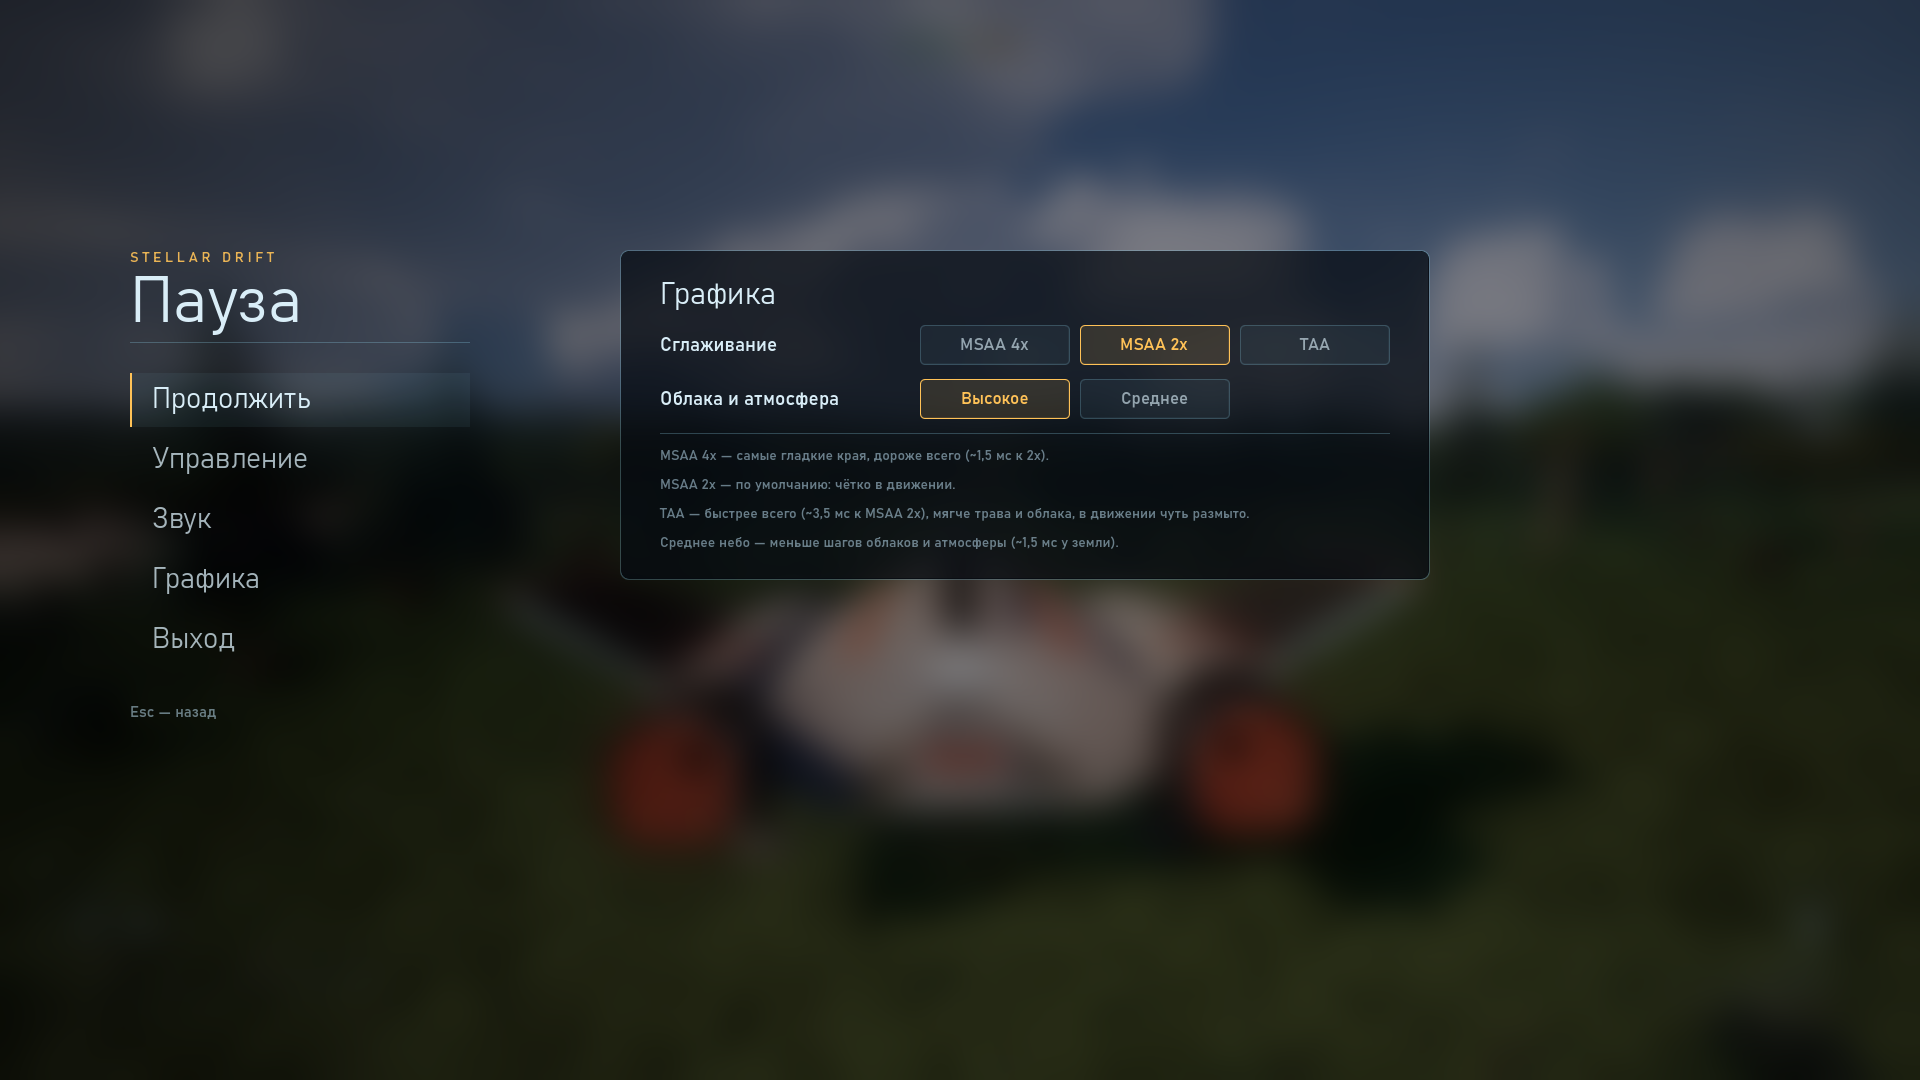
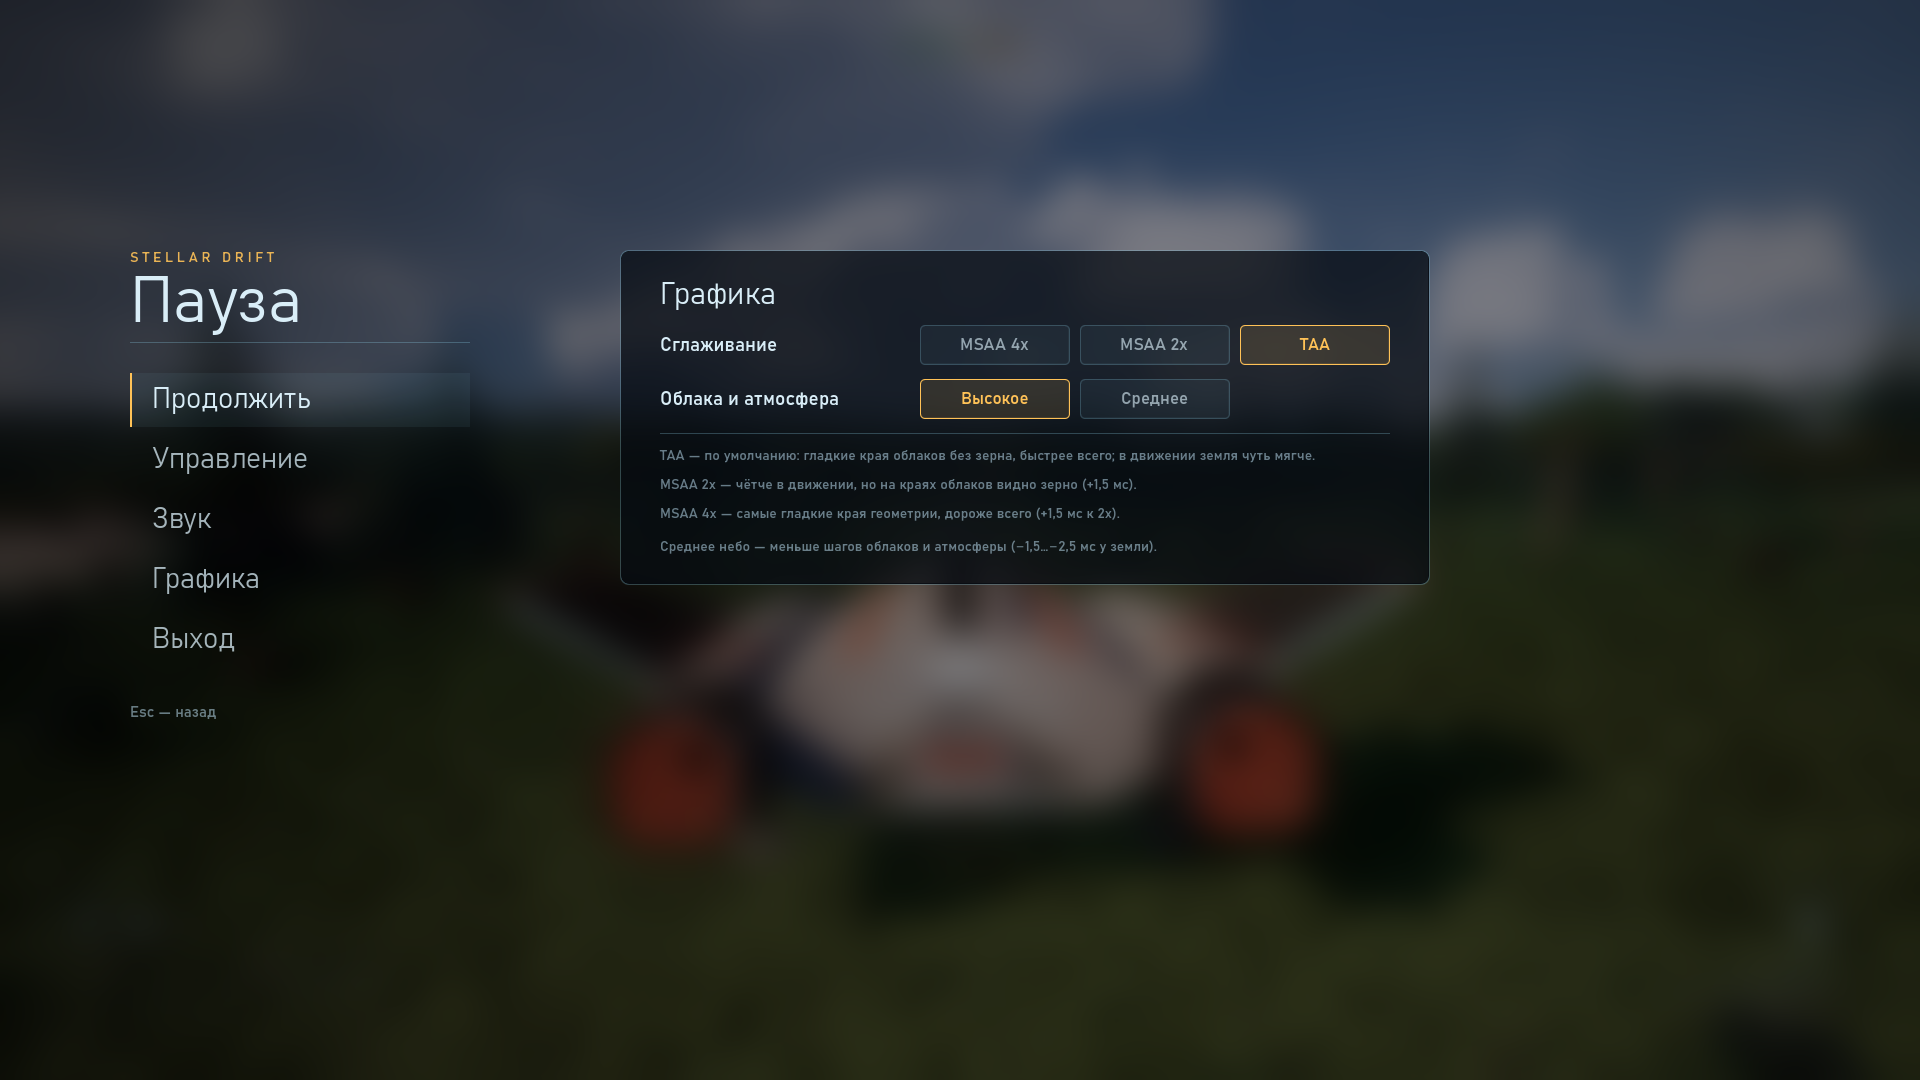
TAA by default with per-frame raymarch jitter: clean cloud edges, start 57 -> 61 FPS
The dotted cloud edges were the static per-pixel raymarch jitter (2x2 quad-shared march).
Under TAA the jitter now shifts every frame (global sd_temporal, golden-ratio sequence from
SunGlobals.advance_frame; quad quarter rotation sd_quad_rot) and TAA averages it: smooth
cloud edges and sky, no trails in motion. The atmosphere drops steps_mul under TAA
(12 steps instead of 18, same look). TAA is now the default AA (MSAA 2x/4x in Esc ->
Графика); captures/benchmarks stay on MSAA. RTX 3060: start 61, ground 70-77, orbit 99 FPS.
movie.ps1 accepts absolute output paths. Playtest 20/20.

Changed region(s): [[0.3438, 0.3972, 0.6875, 0.55], [0.6875, 0.5194, 0.75, 0.55], [0.5938, 0.3056, 0.625, 0.3361]]

diff --git a/docs/reports/perf_wave5.md b/docs/reports/perf_wave5.md
@@ -97,9 +97,37 @@ FSR2 0.77 (62 FPS на старте, но мыло); FXAA выкл. при MSAA 
 макро-шум в вершины (с орбиты вершины редкие — теряется деталь), шейдер без анизотропии на голом грунте.
 Следующий крупный резерв — облака (~4,6 мс) и атмосфера (~3,5 мс) у земли: TAA + временной джиттер (§4 п. 2).
 
-## 6. Отладочные ключи (`scenes/main.gd`, для `gpu_ab.ps1`)
+## 6. Часть 3 — TAA с накоплением шума облаков и атмосферы (по умолчанию)
 
-`--msaa=0..3`, `--fxaa=0..2`, `--taa=0|1`, `--scale3d=x --scale_mode=n`, `--shadow_size=N`, `--shadow_angular=deg`,
+Точки по краям облаков — шум джиттера раймарша: сдвиг начала шагов по пикселю (R2) был **неподвижен**, а с
+квадовым разделением марша (perf_gpu) зерно 2×2. Теперь при TAA сдвиг меняется каждый кадр (глобальный
+`sd_temporal` = дробная часть кадр × золотое сечение, `SunGlobals.advance_frame()`, поворот четвертей квада
+`sd_quad_rot()` в облаках и атмосфере) — TAA усредняет шум: края облаков и небо гладкие (кадр
+`docs/screenshots/local/perf/clouds_msaa_vs_taa.png`: слева MSAA, справа TAA). В движении (видео взлёта) шлейфов у
+облаков нет; земля и трава в движении чуть мягче, чем с MSAA. При MSAA сдвиг неподвижный, как раньше (без мерцания).
+
+Под TAA атмосфере не нужен множитель шагов `steps_mul` 1.5 (его добавляли против зерна): 12 шагов вместо 18,
+−0,6 мс, на кадрах неотличимо. Облака с 40 шагами вместо 56 — заметно зернистее, не взято.
+
+**TAA стал сглаживанием по умолчанию** (меню «Графика»; MSAA 2x/4x — опции). Съёмка и бенчмарки по-прежнему на
+MSAA 2x (настройки пользователя не читают); кадр с TAA: `--msaa=0 --fxaa=0 --taa=1`.
+
+Итог по умолчанию (RTX 3060, 1080p, TAA, небо «Высокое»):
+
+| вид | до оптимизации | часть 1 | часть 2 | **часть 3 (TAA)** | TAA + «Среднее» |
+|---|---|---|---|---|---|
+| `start` | 41,4 | 51,6 | 57,0 | **61,0** | 66,1 |
+| `terra_ground` | 51,6 | 62,0 | 66,7 | **71,5** | 79,3 |
+| `terra_low` | 55,4 | 65,3 | 70,8 | **76,7** | 84,1 |
+| `terra_sunset_ground` | 48,7 | 58,6 | 62,9 | **69,8** | 77,1 |
+| `terra_orbit` | 79,1 | 89,4 | 93,0 | **98,9** | — |
+| `orbit_chase` | 81,2 | 88,7 | 92,7 | **98,2** | — |
+
+На RTX 2060 (≈ 0,7–0,75 от 3060) по умолчанию у земли ожидаемо ~45–55 FPS, с «Средним» небом ~50–60.
+
+## 7. Отладочные ключи (`scenes/main.gd`, для `gpu_ab.ps1`)
+
+`--msaa=0..3`, `--fxaa=0..2`, `--taa=0|1` (+ покадровый джиттер раймарша, как в меню), `--scale3d=x --scale_mode=n`, `--shadow_size=N`, `--shadow_angular=deg`,
 `--shadow_splits=1|2|4`, `--shadow_blend=0|1`, `--shadow_soft=0..5`, `--shadow_base=m`, `--terrain_shadows=0|1`,
 `--lod=x`, `--hide=@<путь узла>`; `--section=graphics` для пресета `pause_menu`.
 Кадр меню: `docs/screenshots/local/perf/menu_graphics.png`.

diff --git a/docs/STATUS.md b/docs/STATUS.md
@@ -19,19 +19,20 @@
   very low / без смешивания сплитов, анизотропия 8x — старт 41 → 52 FPS, у земли 50–55 → 59–65, орбита 79 → 89 (RTX 3060).
   Новое меню Esc → «Графика»: сглаживание MSAA 4x / 2x / TAA, облака и атмосфера Высокое / Среднее.
   Часть 2 (шейдер рельефа): карты нормалей в BC5, порог triplanar → **старт 57, у земли 63–71, орбита 93**;
-  TAA + «Среднее» небо: старт 65, у земли 75–81.
+  Часть 3: **TAA по умолчанию** с покадровым сдвигом шума облаков/атмосферы — края облаков без «точек», атмосфере
+  хватает 12 шагов → **старт 61, у земли 70–77, орбита 99 FPS** (TAA + «Среднее» небо: старт 66, у земли 77–84).
 - Осталось по §4 HANDOFF: прослушать звук и оценить ощущения (человек).
 - Затем волна 5: финальные кадры/видео, README, тег `v0.1` (HANDOFF §5).
 
 ## Известные проблемы
-- **FPS (RTX 3060, 1080p, по умолчанию):** старт 57, у земли 63–71, орбита 93. На RTX 2060 у земли ожидаемо ~45–52
-  при цели 60 (с TAA + «Среднее» небо ~50–60). Дальше — облака/атмосфера: TAA + временной джиттер (`perf_wave5.md` §4–5).
-- Высоты рельефа преувеличены; Ignis сверху слабый; горы издалека гладкие; облака вблизи зернистые (HANDOFF §5).
+- **FPS (RTX 3060, 1080p, по умолчанию, TAA):** старт 61, у земли 70–77, орбита 99. На RTX 2060 у земли ожидаемо ~45–55
+  при цели 60 (с «Средним» небом ~50–60). С TAA земля в движении чуть мягче, чем с MSAA (MSAA — в меню «Графика»).
+- Высоты рельефа преувеличены; Ignis сверху слабый; горы издалека гладкие; облака вблизи зернистые только с MSAA — с TAA (по умолчанию) гладкие (HANDOFF §5).
 - Автопилот при облёте Terra к Selene всё ещё «качает» газ (2 провала скорости, 6 разворотов газа — PASS).
 - Physics interpolation выключена; TIME сбрасывается раз в час.
 
 ## Следующий шаг
-- Прослушать звук, попробовать «Графика» в игре → волна 5 (v0.1); по желанию — облака/атмосфера с TAA-накоплением.
+- Прослушать звук, оценить TAA в игре (Esc → «Графика») → волна 5 (v0.1). Финальные кадры снимать с `--msaa=0 --fxaa=0 --taa=1`.
 
 ## Как продолжить после обрыва сессии
 0. **`docs/HANDOFF.md`** — полный порядок действий.

diff --git a/docs/DECISIONS.md b/docs/DECISIONS.md
@@ -37,3 +37,4 @@
 | 2026-11-02 | Пользовательские настройки графики (`GraphicsSettings`, `user://settings.cfg [graphics]`) не применяются при съёмке/бенчмарке (`--shot`/`--cam`) | Кадры и замеры сравнимы между машинами и сессиями |
 | 2026-11-02 | Карты нормалей рельефа — BC5 (RG), z восстанавливается в шейдере; шумовые RGBA-текстуры (`noise`, `ground_detail`, `ripples`) остаются несжатыми | BC5 хранит два независимых канала без потерь на глаз и вчетверо снижает трафик; четыре независимых канала шума блочное сжатие портит |
 | 2026-11-02 | Triplanar: проекции с весом < 0,05 отбрасываются непрерывно (вычитание + перенормировка), синхронно с `ScatterBiome.tri_w` | −0,4…−1,2 мс без шва (жёсткий порог дал бы шов на переходе) |
+| 2026-11-02 | **TAA — сглаживание по умолчанию**; при TAA джиттер раймарша облаков/атмосферы сдвигается каждый кадр (`sd_temporal`), атмосфере без `steps_mul`; при MSAA джиттер неподвижен | Убирает «точки» на краях облаков (заметил пользователь) и даёт +4 FPS; цена — земля в движении чуть мягче, MSAA остаётся в меню |

diff --git a/docs/SESSION_LOG.md b/docs/SESSION_LOG.md
@@ -50,3 +50,6 @@
 - Оптимизация, часть 2 (шейдер рельефа): разбор вариантами (фрагмент ≈ 5,2 мс, цена размазана); карты нормалей в BC5
   (сгенерированные и импортируемые, `rock_scatter` восстанавливает z), порог triplanar 0,05 с перенормировкой (SYNC
   `ScatterBiome`) → старт 52 → 57, у земли 62–65 → 63–71, орбита 89 → 93 FPS; кадры неотличимы.
+- Часть 3: «точки» на краях облаков (вопрос пользователя) — неподвижный джиттер раймарша. Глобальный `sd_temporal`
+  (сдвиг на кадр под TAA) + поворот четвертей квада; TAA — сглаживание по умолчанию, атмосфере под TAA 12 шагов вместо 18
+  → края облаков гладкие, старт 61, у земли 70–77, орбита 99 FPS. `movie.ps1` принимает абсолютный путь.

diff --git a/docs/ROADMAP.md b/docs/ROADMAP.md
@@ -64,4 +64,5 @@
 ## Оптимизация (первая часть сделана до v0.1)
 - [x] Тени (4096, very low, без смешивания сплитов), MSAA 4x→2x, анизотропия 8x, меню «Графика» — `docs/reports/perf_wave5.md`
 - [x] Шейдер рельефа: нормали в BC5, порог triplanar (старт 52 → 57 FPS)
-- [ ] TAA + временной джиттер облаков/атмосферы, draw calls флоры
+- [x] TAA по умолчанию + покадровый джиттер облаков/атмосферы (края облаков без зерна, старт 57 → 61 FPS)
+- [ ] Draw calls флоры (2700 на старте; CPU 2,2 мс — пока не узкое место)
